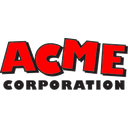
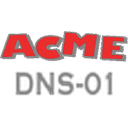
1.1.0: artwork carrying the app's current name
The store logo and icon still read "ACME Corporation", a leftover from
before 0.2.0 renamed the app to "DNS-01 Let's Encrypt challenge server".
Both are now cut from one master export, Acme-DNS.png, whose wordmark
carries the current name.

logo.png is that master at 250x83, inside the 250x100 the store allows.
icon.png cannot be a straight scale: the master is a ~4:1 banner and the
icon is square, so the wordmark sits at full width with "DNS-01" beneath
it, the same two-line arrangement the old icon used for "CORPORATION".
Alpha preserved on both.

The Affinity Photo document is gitignored and the flattened PNG tracked
in its place, keeping the derivation reproducible without a 600 KB editor
file or its lock.

No functional change. config.yaml is monitored, so the bump is what stops
the merge from republishing an existing tag with different content.

diff --git a/acme_dns/CHANGELOG.md b/acme_dns/CHANGELOG.md
@@ -1,5 +1,21 @@
 # Changelog
 
+## 1.1.0
+
+- **New store artwork.** `logo.png` and `icon.png` are now derived from a single master
+  (`acme_dns/Acme-DNS.png`), whose wordmark carries the app's current name — "DNS-01 Let's
+  Encrypt challenge server" — where the previous artwork still read "ACME Corporation", a
+  leftover from before the 0.2.0 rename.
+- The logo is the master scaled to 250×83, within the 250×100 the store allows. The icon cannot
+  be: the master is a ~4:1 banner and `icon.png` is square, so the wordmark is set at full width
+  with "DNS-01" beneath it — the same two-line arrangement the old icon used for "CORPORATION".
+  Both keep their alpha channel, so they sit on either store theme.
+- No functional change. The version bump is here because `config.yaml` is a monitored file, so
+  merging republishes the image tag; nothing in `Dockerfile` or `rootfs/` moved, and the app
+  itself is byte-for-byte 1.0.0.
+- The Affinity Photo document these were cut from is gitignored. The flattened PNG is tracked
+  in its place, so the derivation stays reproducible without carrying a 600 KB editor file.
+
 ## 1.0.0
 
 - **Promoted to stable**, which the app linter requires be expressed by *removing* `stage`
